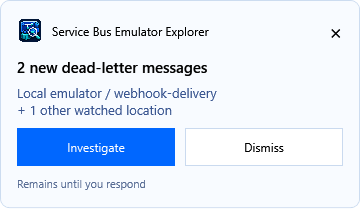
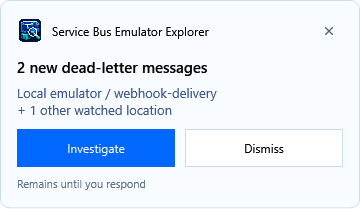
Polish notification close button hover

diff --git a/tools/ServiceBusEmulatorExplorer.InvestigationPrototype/WatchNotificationWindow.cs b/tools/ServiceBusEmulatorExplorer.InvestigationPrototype/WatchNotificationWindow.cs
@@ -21,7 +21,7 @@ public sealed class WatchNotificationWindow : Window
         Icon = new BitmapImage(new Uri("pack://application:,,,/Assets/AppIcon.png"));
         var panel = new StackPanel { Margin = new Thickness(16) };
         var header = new DockPanel { Margin = new(0, 0, 0, 12) };
-        var close = new Button { Content = "×", FontSize = 21, Background = Brushes.Transparent, BorderThickness = new(0), Padding = new(5, 0, 0, 0) };
+        var close = CreateCloseButton();
         System.Windows.Automation.AutomationProperties.SetName(close, "Dismiss notification");
         close.Click += (_, _) => dismiss();
         DockPanel.SetDock(close, Dock.Right); header.Children.Add(close);
@@ -37,6 +37,31 @@ public sealed class WatchNotificationWindow : Window
         panel.Children.Add(new TextBlock { Text = "Remains until you respond", FontSize = 11, Margin = new(0, 10, 0, 0), Foreground = new SolidColorBrush(Color.FromRgb(90, 110, 150)) });
         Content = new Border { Background = new SolidColorBrush(Color.FromRgb(248, 251, 255)), BorderBrush = new SolidColorBrush(Color.FromRgb(204, 220, 240)), BorderThickness = new(1), CornerRadius = new(9), Child = panel };
         Loaded += (_, _) => Position(); SizeChanged += (_, _) => Position();
+    }
+
+    private static Button CreateCloseButton()
+    {
+        var close = new Button
+        {
+            Width = 28, Height = 28, VerticalAlignment = VerticalAlignment.Center,
+            Background = Brushes.Transparent, BorderThickness = new(0),
+            ToolTip = "Dismiss notification", Cursor = System.Windows.Input.Cursors.Hand
+        };
+        close.Template = (ControlTemplate)System.Windows.Markup.XamlReader.Parse("""
+            <ControlTemplate xmlns="http://schemas.microsoft.com/winfx/2006/xaml/presentation"
+                             xmlns:x="http://schemas.microsoft.com/winfx/2006/xaml" TargetType="Button">
+              <Border x:Name="Surface" Background="Transparent" CornerRadius="4" BorderThickness="1" BorderBrush="Transparent">
+                <Path Data="M0,0 L8,8 M8,0 L0,8" Width="8" Height="8" Stroke="#526887" StrokeThickness="1.5"
+                      StrokeStartLineCap="Round" StrokeEndLineCap="Round" HorizontalAlignment="Center" VerticalAlignment="Center"/>
+              </Border>
+              <ControlTemplate.Triggers>
+                <Trigger Property="IsMouseOver" Value="True"><Setter TargetName="Surface" Property="Background" Value="#EAF4FF"/></Trigger>
+                <Trigger Property="IsKeyboardFocused" Value="True"><Setter TargetName="Surface" Property="BorderBrush" Value="#0078F8"/></Trigger>
+                <Trigger Property="IsPressed" Value="True"><Setter TargetName="Surface" Property="Background" Value="#DBEDFF"/></Trigger>
+              </ControlTemplate.Triggers>
+            </ControlTemplate>
+            """);
+        return close;
     }
 
     private void Position()

diff --git a/tools/ServiceBusEmulatorExplorer.InvestigationPrototype/WatchProof.cs b/tools/ServiceBusEmulatorExplorer.InvestigationPrototype/WatchProof.cs
@@ -32,6 +32,17 @@ internal static class WatchProof
             "Repeated arrivals group by entity and Active/DLQ bucket in one persistent notification", report);
         ProofCapture.CheckBounds(notification, ProofCapture.Descendants(notification).OfType<Button>());
         ProofCapture.Save(notification, output, "watch-desktop-notification");
+        var close = ProofCapture.Descendants(notification).OfType<Button>().Single(button => button.ToolTip?.ToString() == "Dismiss notification");
+        var hoverKey = typeof(UIElement).GetFields(System.Reflection.BindingFlags.Static | System.Reflection.BindingFlags.NonPublic)
+            .Where(field => field.FieldType == typeof(DependencyPropertyKey)).Select(field => (DependencyPropertyKey)field.GetValue(null)!)
+            .Single(key => key.DependencyProperty == UIElement.IsMouseOverProperty);
+        close.SetValue(hoverKey, true);
+        await Settle();
+        var closeSurface = (Border)close.Template.FindName("Surface", close);
+        Check(closeSurface.Background is System.Windows.Media.SolidColorBrush hover && hover.Color == System.Windows.Media.Color.FromRgb(234, 244, 255)
+            && close.ActualWidth == close.ActualHeight, "Notification close uses a square target and soft blue hover (simulated pointer state)", report);
+        ProofCapture.Save(notification, output, "watch-close-hover");
+        close.SetValue(hoverKey, false);
         window.Hide();
         await Task.Delay(300);
         await Settle();

diff --git a/tools/ServiceBusEmulatorExplorer.InvestigationPrototype/README.md b/tools/ServiceBusEmulatorExplorer.InvestigationPrototype/README.md
@@ -52,7 +52,7 @@ Search by correlation ID or message ID supports `case-123 OR case-456` and `case
 
 ## Rendered evidence
 
-Build: zero warnings and errors. Final walkthrough: **205 passing checks**, with rendered visual inspection. A separate [real tray lifetime proof](tray-verification.md) adds **11 passing checks**, including timer-driven arrivals while hidden, Investigate, disabling close-to-tray, and Exit cleanup.
+Build: zero warnings and errors. Final walkthrough: **206 passing checks**, with rendered visual inspection. A separate [real tray lifetime proof](tray-verification.md) adds **11 passing checks**, including timer-driven arrivals while hidden, Investigate, disabling close-to-tray, and Exit cleanup.
 
 | UI gate | Result | Evidence |
 | --- | --- | --- |

diff --git a/tools/ServiceBusEmulatorExplorer.InvestigationPrototype/verification.md b/tools/ServiceBusEmulatorExplorer.InvestigationPrototype/verification.md
@@ -151,6 +151,7 @@ PASS: Space on a row checkbox toggles that checkbox once.
 - PASS: Background arrivals preserve the investigation scope and focused message
 - PASS: Watch notification is a separate visible desktop window, independent of the main window
 - PASS: Repeated arrivals group by entity and Active/DLQ bucket in one persistent notification
+- PASS: Notification close uses a square target and soft blue hover (simulated pointer state)
 - PASS: Desktop notification remains visible while the application is hidden
 - PASS: Investigate restores the app, searches across the connection, and focuses the latest notified message
 - PASS: Grouped notification searches all distinct notified correlation IDs without unrelated results
